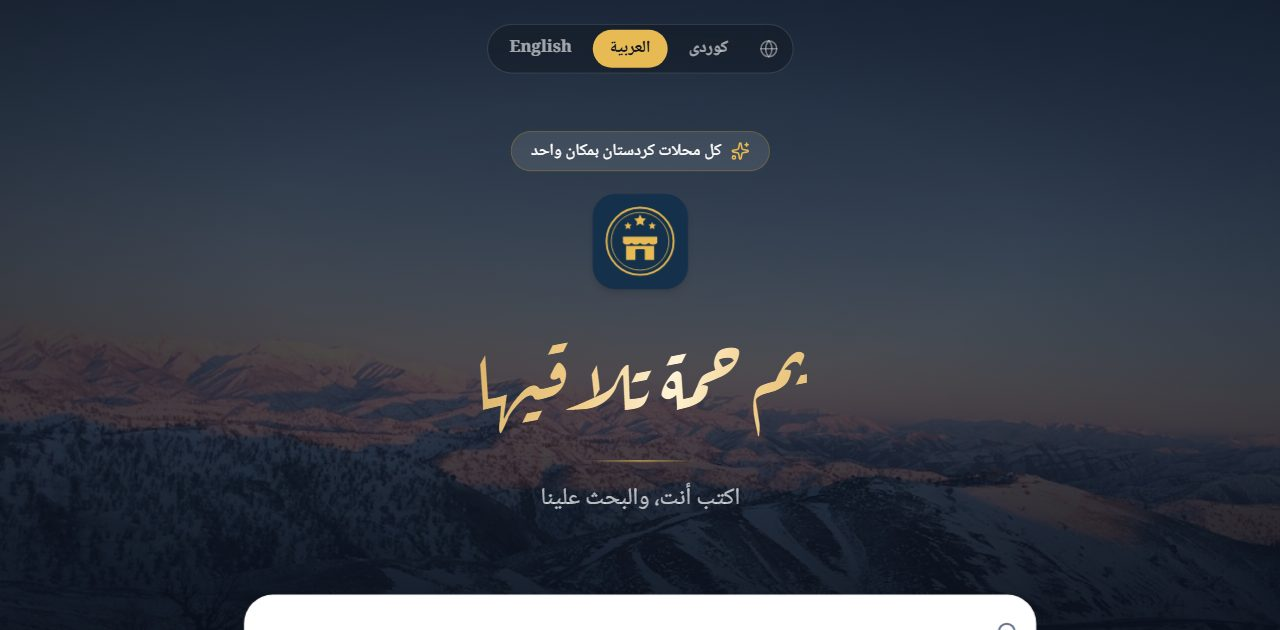
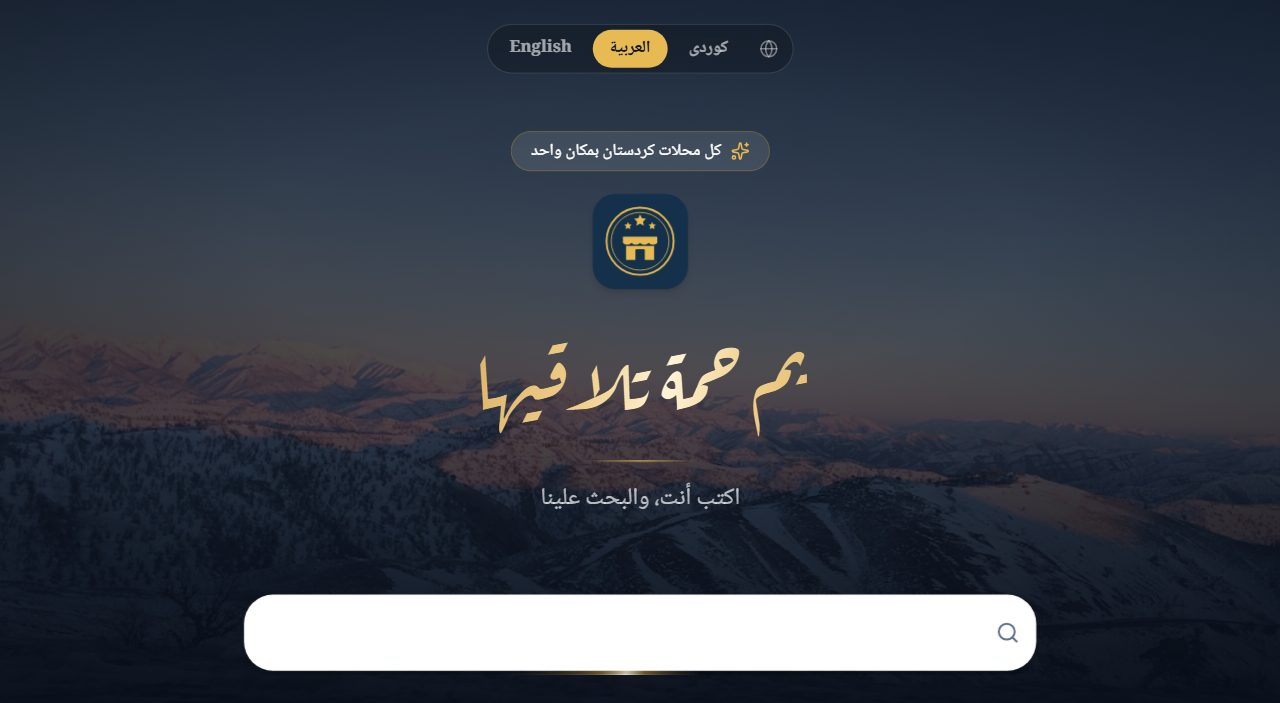
Let the frame be told what it must contain
The shops card was cutting the search box in half — which on a site that is a
logo and a search box is a picture of something broken. The badge and the rule
that went into that hero pushed the field down 51px, and the frame height was a
number typed into the config, so it stayed where it was.

A site can now name an element the frame has to contain and the height follows
where that element actually ends, plus a little air. maxHeight becomes a
ceiling rather than the answer. The counter still overrides both: a picture
with a listing count in it is wrong within the week, which is the older and
more expensive mistake.

The token substituted into MEASURE is swapped with String.replace, which takes
the first occurrence only — so it may appear exactly once, in the code. It was
in a comment directly above too, the comment got the value, the code kept the
bare identifier, and the run died on JSON.parse(undefined).

diff --git a/TEAM-LOG.md b/TEAM-LOG.md
@@ -21,6 +21,20 @@ picture of a site that no longer looks like that.
 `homes.en` came back byte-identical. The shops frame reads as one family with
 the other two now: same mountains, same hour, same masthead.
 
+Then Hama pointed out the shops frame was cutting the search box in half. It
+was: the badge and the rule that went into that hero pushed the field down 51px
+and the frame height was a number typed into the config. A site can now name an
+element the frame has to contain — `mustShow: ".field"` — and the height is
+worked out from where that element actually ends, with maxHeight left as a
+ceiling. The counter still wins over both, because a picture with a listing
+count in it is wrong within the week.
+
+One trap worth knowing if you touch `MEASURE`: the per-site token is
+substituted with `String.replace`, which swaps the first occurrence only. It
+was mentioned in a comment directly above the code that used it, so the comment
+got the value and the code kept the bare identifier — the page threw and the
+whole run died on `JSON.parse(undefined)`.
+
 Nothing in your card design was touched — the browser window, the tilt and the
 glint are all yours and all still there. This is only the picture inside them.
 
